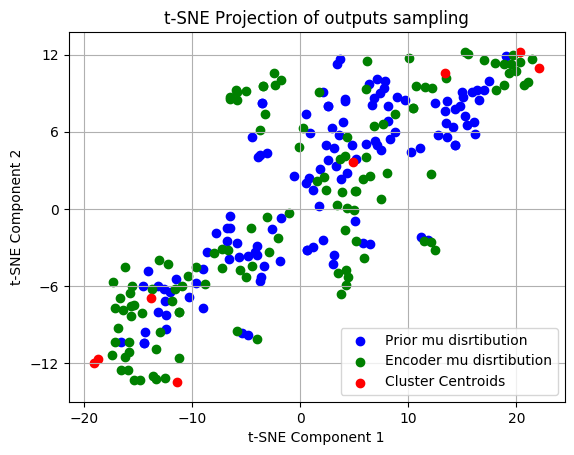
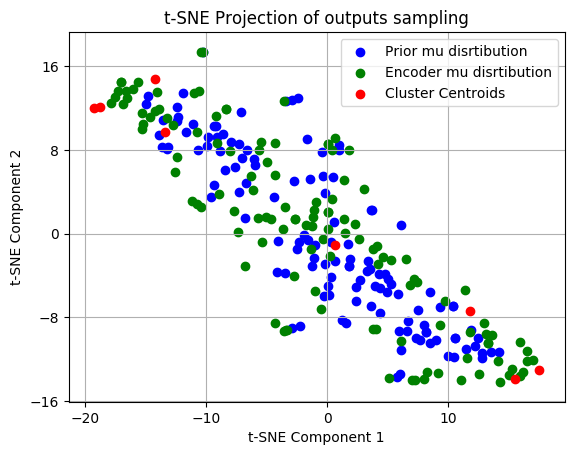
Added functional Inference projection

diff --git a/SPirL_DPMM_Inference.py b/SPirL_DPMM_Inference.py
@@ -56,47 +56,127 @@ model.cluster_logging = checkpoint['DPMM_logging_clusters']
 
 dataloader = D4RLSequenceSplitDataset('.',data_conf=data_config, phase='val', resolution=64, shuffle= False, dataset_size= -1).get_data_loader(batch_size=124, n_repeat=50)
 model.to('cuda')
-def val(model):
+
+def sample_component(model,
+               num_samples:int,
+               component:int,
+               **kwargs):
+        """
+        Samples from a dpmm cluster and return the corresponding
+        image space map.
+        :param num_samples: (Int) Number of samples
+        :param current_device: (Int) Device to run the model         
+        """
+        mu = model.comp_mu[component]
+        cov = torch.diag_embed(model.comp_var[component])
+        dist = torch.distributions.MultivariateNormal(loc=mu, 
+                                                      covariance_matrix=cov)
+        z = dist.sample((num_samples,))
+        return z
+
+def sample_inference(model,
+               num_samples:int,
+               mu, log_sigma,
+               **kwargs):
+        """
+        Samples from a generated datapoint, returns z
+        :param num_samples: (Int) Number of samples
+        :param current_device: (Int) Device to run the model         
+        """
+        mu = mu
+        var = torch.exp(log_sigma)**2
+        # batch_shape [batch_size], event_shape [latent_dim]
+        # Computing the Multivariate distributions:
+        dist = torch.distributions.MultivariateNormal(loc=mu, 
+                                                        covariance_matrix=torch.diag_embed(var))
+        z = dist.sample((num_samples,))
+        return z
+
+def val(model, choose_last = True):
         print('Running Testing')
         model.eval()
         with autograd.no_grad():
             for batch_idx, sample_batched in enumerate(dataloader):
                 inputs = AttrDict(map_dict(lambda x: x.to("cuda"), sample_batched))
-                print(batch_idx)
+                print("Batch:", batch_idx)
                 # run evaluator with val-mode model
                 with model.val_mode():
                     # run non-val-mode model (inference) to check overfitting
                     output = model(inputs)
                     losses = model.loss(output, inputs)
 
-
         return output, losses
 
-out , loss =val(model=model)
+def plot_centroids(out, model):
+    tsne = TSNE(n_components=2, random_state=0)
+    #print(np.array([x.numpy() for x in model.comp_mu]).shape)
+    #print(out.q_hat.mu.detach().cpu().numpy().shape)
+    centroids = np.array([x.numpy() for x in model.comp_mu])
+    prior = out.q_hat.mu.detach().cpu().numpy()
+    encoder = out.q.mu.detach().cpu().numpy()
+
+    data = np.append(prior, encoder, axis = 0)
+    data = np.append(data, centroids, axis = 0)
+    print(data.shape)
+    X_tsne = tsne.fit_transform(data)
+
+    plt.figure()
+    plt.scatter(X_tsne[:len(prior), 0], X_tsne[:len(prior), 1], color='blue', label='Prior mu disrtibution')
+    plt.scatter(X_tsne[len(prior):-len(centroids), 0], X_tsne[len(prior):-len(centroids), 1], color='green', label='Encoder mu disrtibution')
+    plt.scatter(X_tsne[-len(centroids):, 0], X_tsne[-len(centroids):, 1], color='red', label='Cluster Centroids')
+    plt.title('t-SNE Projection of outputs sampling')
+    plt.xlabel('t-SNE Component 1')
+    plt.ylabel('t-SNE Component 2')
+    plt.grid(True)
+    plt.legend()
+    plt.savefig('/home/ubuntu/Mikhail/spirl/Prior_mu.png',bbox_inches='tight')
+    plt.show()
+
+def plot_samples(out, model, num__samples, num_inferences):
+    tsne = TSNE(n_components=2, random_state=0)
+    data_cloud = []
+    num_clusters = len(model.comp_mu)
+    num_samples = num__samples
+    num_inferences = num_inferences
+    for k in range(0, num_clusters):
+        data_cloud.extend((sample_component(model=model, num_samples=num_samples, component=k)).numpy())
+
+    for n in range(0,num_inferences):
+        data_cloud.extend((sample_inference(model=model, num_samples=num_samples, mu = out.q.mu[n], log_sigma=out.q.log_sigma[n])).detach().cpu().numpy())
+
+    # Projecting onto 2 dim manifold
+    print("Computing TSNE...")
+    tsne = TSNE(n_components=2, random_state=0)
+    X_tsne = tsne.fit_transform(data_cloud)
+
+    # Setting colors (9 max, extend by need)
+    colors = ['blue', 'red', 'green', 'orange', 'purple','brown','pink', 'olive', 'cyan']
+    cluster_sizes = [num_samples] * num_clusters  
+    inference_sizes =  [num_samples] * num_inferences
+    # Plotting datapoints, assigning cluster colors
+    plt.figure()
+    for i in range(num_clusters):
+        start_index = sum(cluster_sizes[:i])
+        end_index = start_index + cluster_sizes[i]
+        plt.scatter(X_tsne[start_index:end_index, 0], X_tsne[start_index:end_index, 1], color='gray')
+
+    for i in range(num_inferences):
+        start_index = num_samples * num_clusters + sum(inference_sizes[:i])
+        end_index = start_index + inference_sizes[i]
+        plt.scatter(X_tsne[start_index:end_index, 0], X_tsne[start_index:end_index, 1], color=colors[i], marker='s', label=f'Inference distribution {i+1}')
+    plt.scatter(X_tsne[0, 0], X_tsne[0, 1], color='gray', label = 'DPMM Prior')
+    plt.title('t-SNE Projection of Inferences with DPMM-prior')
+    plt.xlabel('t-SNE Component 1')
+    plt.ylabel('t-SNE Component 2')
+    plt.grid(True)
+    plt.legend()
+    plt.savefig('/home/ubuntu/Mikhail/spirl/Inference Projection onto DPMM.png',bbox_inches='tight')
+    plt.show()
+
+
+out , loss = val(model=model, choose_last=False)
 print("Prior mu, sigma:",out.q_hat.mu, out.q_hat.log_sigma)
 print("Latent mu, sigma:",out.q.mu, out.q.log_sigma)
 print(out.q_hat.mu.shape)
 
-tsne = TSNE(n_components=2, random_state=0)
-print(np.array([x.numpy() for x in model.comp_mu]).shape)
-print(out.q_hat.mu.detach().cpu().numpy().shape)
-centroids = np.array([x.numpy() for x in model.comp_mu])
-prior = out.q_hat.mu.detach().cpu().numpy()
-encoder = out.q.mu.detach().cpu().numpy()
-
-data = np.append(prior, encoder, axis = 0)
-data = np.append(data, centroids, axis = 0)
-print(data.shape)
-X_tsne = tsne.fit_transform(data)
-
-plt.figure()
-plt.scatter(X_tsne[:len(prior), 0], X_tsne[:len(prior), 1], color='blue', label='Prior mu disrtibution')
-plt.scatter(X_tsne[len(prior):-len(centroids), 0], X_tsne[len(prior):-len(centroids), 1], color='green', label='Encoder mu disrtibution')
-plt.scatter(X_tsne[-len(centroids):, 0], X_tsne[-len(centroids):, 1], color='red', label='Cluster Centroids')
-plt.title('t-SNE Projection of outputs sampling')
-plt.xlabel('t-SNE Component 1')
-plt.ylabel('t-SNE Component 2')
-plt.grid(True)
-plt.legend()
-plt.savefig('/home/ubuntu/Mikhail/spirl/Prior_mu.png',bbox_inches='tight')
-plt.show()
+plot_samples(out=out, model=model, num__samples=120, num_inferences=3)
